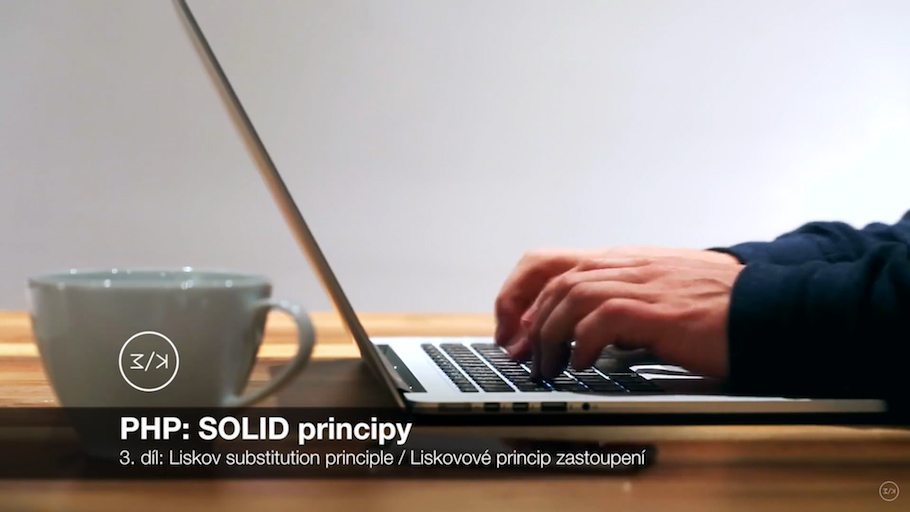
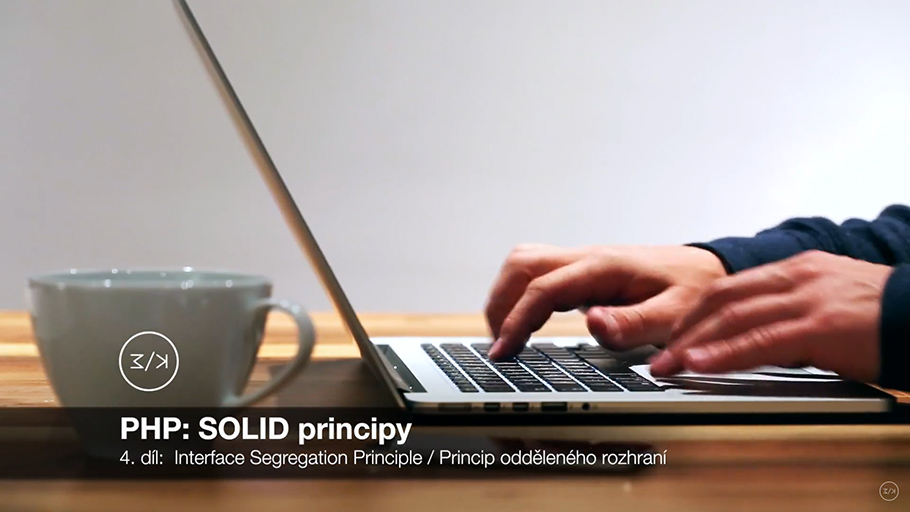
Fix image for Video of article SOLID pricpty - 4. díl

Changed region(s): [[0.5231, 0.375, 1.0, 1.0], [0.1231, 0.8125, 0.7385, 0.9375], [0.1231, 0.8125, 0.2769, 0.8438]]

diff --git a/source/_posts/2017/2017-12-08-solid-principy-4-dil-princip-oddeleneho-rozhrani.md b/source/_posts/2017/2017-12-08-solid-principy-4-dil-princip-oddeleneho-rozhrani.md
@@ -14,7 +14,7 @@ author: 30
 
 Video (1:29)
 
-[![Video na Youtube](/assets/images/posts/2017/solid-4/solid-youtube.jpg)](http://www.youtube.com/watch?v=RkTMid_ccDo)
+[![Video na Youtube](/assets/images/posts/2017/solid-4/solid-youtube.jpg?version2)](http://www.youtube.com/watch?v=RkTMid_ccDo)
 
 Na ukázku zde mám rozhraní ```IBag```, třídu ```Bag```, která jej implementuje a třídu ```Renderer```:
 
